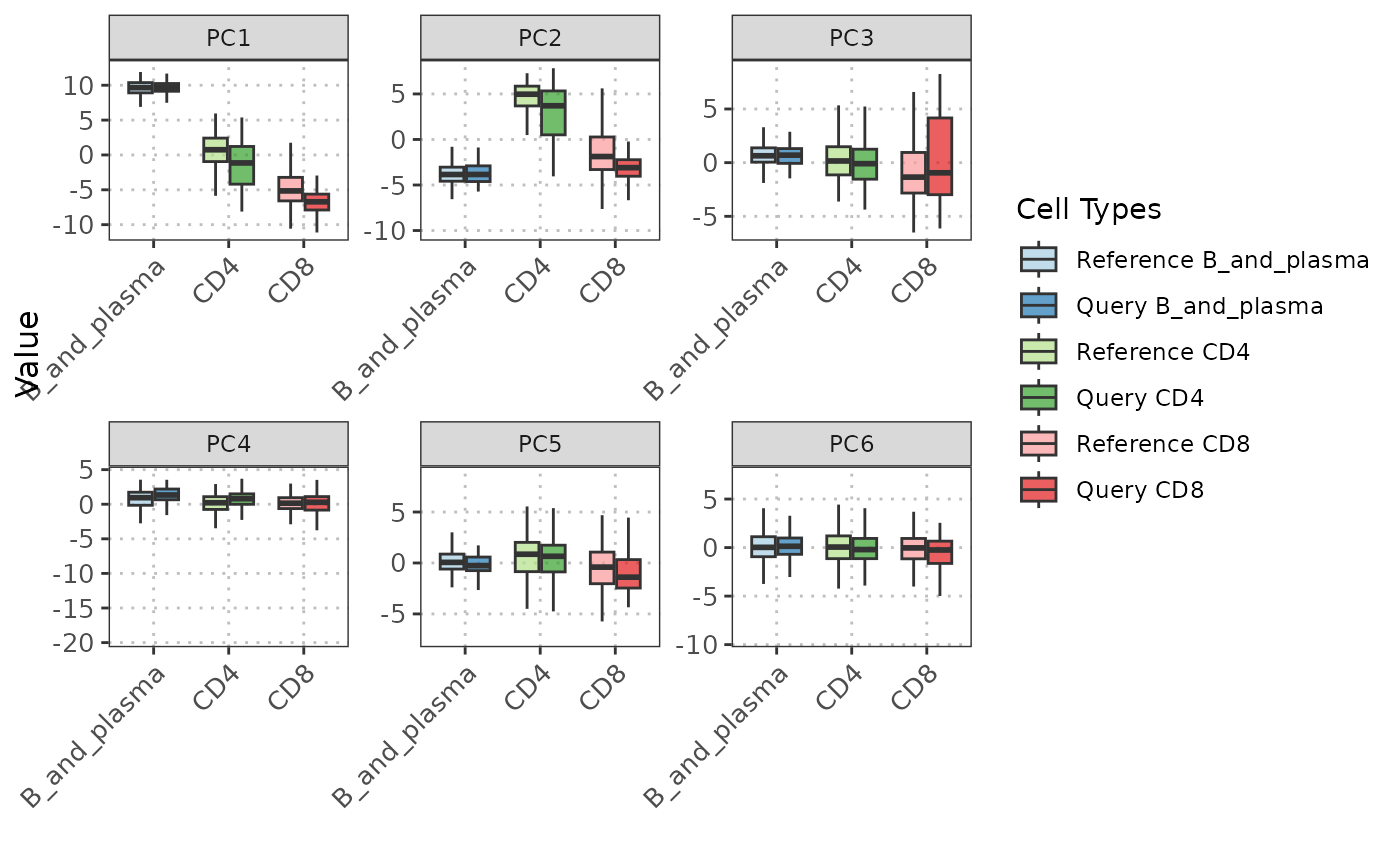
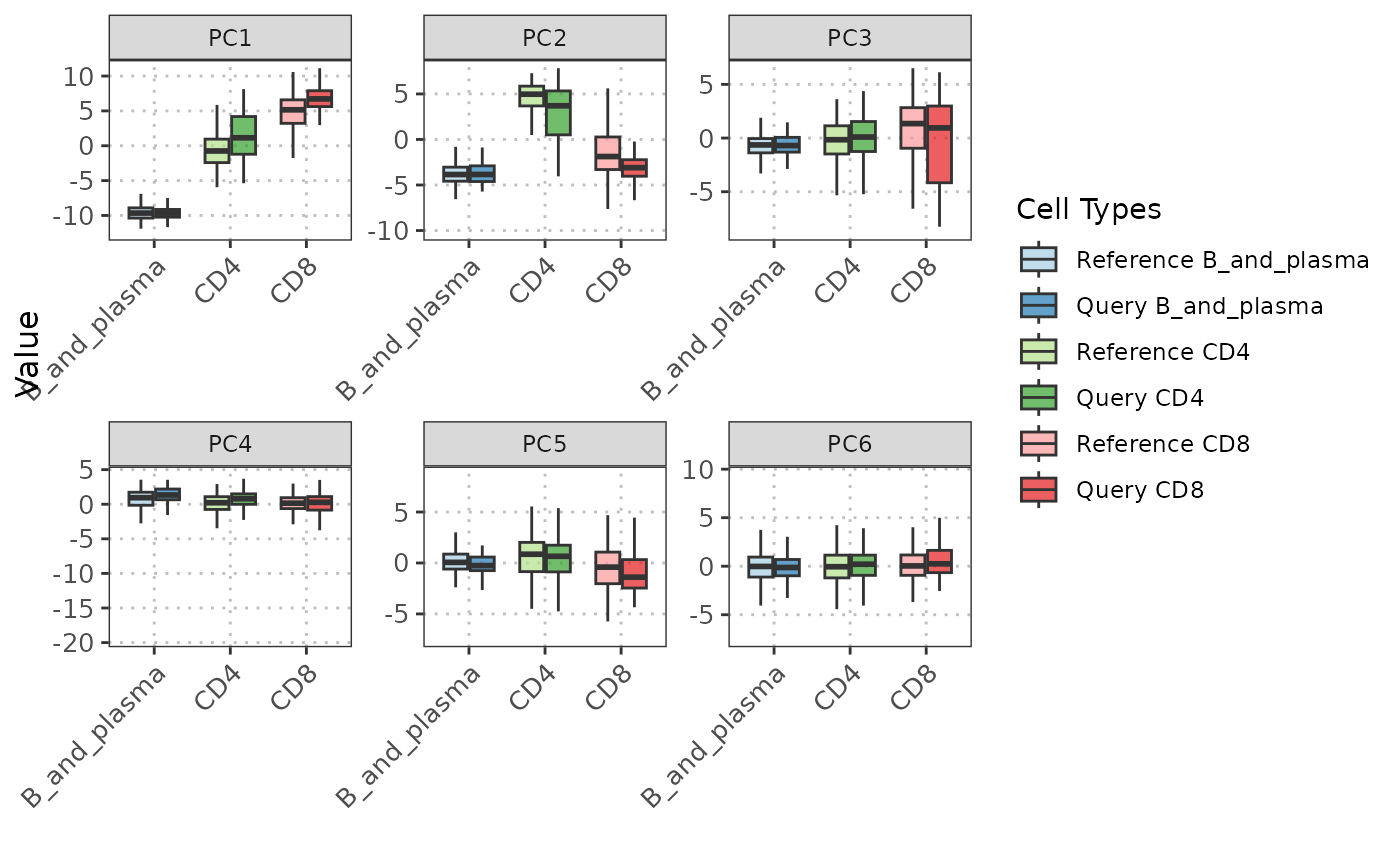
Deploying to gh-pages from @ AnthonyChristidis/scDiagnostics@f25e7e4d71ed37a1fcdbae61748abeb85df72b03 🚀

diff --git a/articles/scDiagnostics.html b/articles/scDiagnostics.html
@@ -425,8 +425,7 @@ functional characteristics.</p>
 <span><span class="fu"><a href="../reference/plotGeneSetScores.html">plotGeneSetScores</a></span><span class="op">(</span>se_object <span class="op">=</span> <span class="va">query_data</span>, </span>
 <span>                  method <span class="op">=</span> <span class="st">"PCA"</span>, </span>
 <span>                  feature <span class="op">=</span> <span class="st">"geneSetScores"</span>,</span>
-<span>                  pc_subset <span class="op">=</span> <span class="fu"><a href="https://rdrr.io/r/base/c.html" class="external-link">c</a></span><span class="op">(</span><span class="fl">1</span><span class="op">:</span><span class="fl">5</span><span class="op">)</span><span class="op">)</span></span></code></pre></div>
-<p><img src="scDiagnostics_files/figure-html/plot-Gene-Set-Scores-1.png" width="700"></p>
+<span>                  pc_subset <span class="op">=</span> <span class="fu"><a href="https://rdrr.io/r/base/c.html" class="external-link">c</a></span><span class="op">(</span><span class="fl">1</span><span class="op">:</span><span class="fl">6</span><span class="op">)</span><span class="op">)</span></span></code></pre></div>
 <p>In the provided example, we demonstrate the usage of the
 plotGeneSetScores function using the AUCell package to compute gene set
 or pathway scores. Custom gene sets are generated for demonstration
@@ -587,7 +586,6 @@ not fully capture the distinctions between these cell types.</p>
 <span>                     query_cell_type_col <span class="op">=</span> <span class="st">"reclustered.broad"</span>, </span>
 <span>                     ref_cell_type_col <span class="op">=</span> <span class="st">"reclustered.broad"</span>, </span>
 <span>                     pc_subset <span class="op">=</span> <span class="fu"><a href="https://rdrr.io/r/base/c.html" class="external-link">c</a></span><span class="op">(</span><span class="fl">1</span><span class="op">:</span><span class="fl">6</span><span class="op">)</span><span class="op">)</span></span></code></pre></div>
-<p><img src="scDiagnostics_files/figure-html/visualize-Cell-Type-PCA-1.png" width="700"></p>
 <p>The B and plasma cell types from the reference and query datasets do
 not overlap well in the PCA space. This lack of overlap could indicate
 discrepancies between the datasets, such as poor classification by
@@ -611,7 +609,10 @@ consistent across these datasets. This overlap indicates that the cell
 type characteristics are well captured and comparable between the
 datasets.</p>
 <div class="sourceCode" id="cb14"><pre class="downlit sourceCode r">
-<code class="sourceCode R"><span><span class="co"># Boxplots of PCs</span></span>
+<code class="sourceCode R"><span><span class="co"># Run PCA on the reference data</span></span>
+<span><span class="va">ref_data_subset</span> <span class="op">&lt;-</span> <span class="fu"><a href="https://rdrr.io/pkg/BiocSingular/man/runPCA.html" class="external-link">runPCA</a></span><span class="op">(</span><span class="va">ref_data_subset</span><span class="op">)</span></span>
+<span></span>
+<span><span class="co"># Boxplots of PCs</span></span>
 <span><span class="fu"><a href="../reference/boxplotPCA.html">boxplotPCA</a></span><span class="op">(</span>query_data <span class="op">=</span> <span class="va">query_data_subset</span>, reference_data <span class="op">=</span> <span class="va">ref_data_subset</span>,</span>
 <span>           query_cell_type_col <span class="op">=</span> <span class="st">"labels"</span>, </span>
 <span>           ref_cell_type_col <span class="op">=</span> <span class="st">"reclustered.broad"</span>, </span>
@@ -988,21 +989,21 @@ query samples and reference data.</p>
 <span>                                                       ref_cell_type_col <span class="op">=</span> <span class="st">"reclustered.broad"</span><span class="op">)</span> </span>
 <span><span class="va">overlap_measures</span><span class="op">$</span><span class="va">bhattacharyya_coef</span></span>
 <span><span class="co">#&gt;               Sample B_and_plasma       CD8       CD4</span></span>
-<span><span class="co">#&gt; 1 CGTTGGGAGCTGAACG-1    0.2584233 0.9447935 0.5397216</span></span>
-<span><span class="co">#&gt; 2 AAACGGGCACATGACT-1    0.2875195 0.9706078 0.4892946</span></span>
-<span><span class="co">#&gt; 3 GGGACCTTCCCATTTA-1    0.3109462 0.9476774 0.7052183</span></span>
-<span><span class="co">#&gt; 4 ATTGGTGGTAACGCGA-1    0.4207154 0.4835584 0.5011162</span></span>
-<span><span class="co">#&gt; 5 CTGAAACAGACGCAAC-1    0.3084905 0.9116329 0.5798267</span></span>
-<span><span class="co">#&gt; 6 ATTGGACCATACTACG-1    0.2789674 0.9811063 0.5627595</span></span></code></pre></div>
+<span><span class="co">#&gt; 1 AACTCCCAGTCCCACG-1    0.2838214 0.8965671 0.7743430</span></span>
+<span><span class="co">#&gt; 2 GGGACCTTCCCATTTA-1    0.3109462 0.9476774 0.7052183</span></span>
+<span><span class="co">#&gt; 3 CGTTGGGAGCTGAACG-1    0.2584233 0.9447935 0.5397216</span></span>
+<span><span class="co">#&gt; 4 CACCTTGGTTATGTGC-1    0.2541869 0.9914814 0.4618995</span></span>
+<span><span class="co">#&gt; 5 AAACGGGCACATGACT-1    0.2875195 0.9706078 0.4892946</span></span>
+<span><span class="co">#&gt; 6 ATTGGTGGTAACGCGA-1    0.4207154 0.4835584 0.5011162</span></span></code></pre></div>
 <div class="sourceCode" id="cb29"><pre class="downlit sourceCode r">
 <code class="sourceCode R"><span><span class="va">overlap_measures</span><span class="op">$</span><span class="va">hellinger_dist</span></span>
-<span><span class="co">#&gt;               Sample B_and_plasma       CD8       CD4</span></span>
-<span><span class="co">#&gt; 1 CGTTGGGAGCTGAACG-1    0.8611485 0.2349607 0.6784382</span></span>
-<span><span class="co">#&gt; 2 AAACGGGCACATGACT-1    0.8440856 0.1714414 0.7146366</span></span>
-<span><span class="co">#&gt; 3 GGGACCTTCCCATTTA-1    0.8300927 0.2287412 0.5429380</span></span>
-<span><span class="co">#&gt; 4 ATTGGTGGTAACGCGA-1    0.7611075 0.7186387 0.7063171</span></span>
-<span><span class="co">#&gt; 5 CTGAAACAGACGCAAC-1    0.8315705 0.2972660 0.6482078</span></span>
-<span><span class="co">#&gt; 6 ATTGGACCATACTACG-1    0.8491364 0.1374545 0.6612417</span></span></code></pre></div>
+<span><span class="co">#&gt;               Sample B_and_plasma        CD8       CD4</span></span>
+<span><span class="co">#&gt; 1 AACTCCCAGTCCCACG-1    0.8462733 0.32160979 0.4750337</span></span>
+<span><span class="co">#&gt; 2 GGGACCTTCCCATTTA-1    0.8300927 0.22874124 0.5429380</span></span>
+<span><span class="co">#&gt; 3 CGTTGGGAGCTGAACG-1    0.8611485 0.23496073 0.6784382</span></span>
+<span><span class="co">#&gt; 4 CACCTTGGTTATGTGC-1    0.8636047 0.09229603 0.7335533</span></span>
+<span><span class="co">#&gt; 5 AAACGGGCACATGACT-1    0.8440856 0.17144142 0.7146366</span></span>
+<span><span class="co">#&gt; 6 ATTGGTGGTAACGCGA-1    0.7611075 0.71863872 0.7063171</span></span></code></pre></div>
 <p>When employing the calculateSampleDistancesSimilarity function, the
 anomalous CD4+ T cells identified using detectAnomaly demonstrate
 intriguing patterns in their similarity measures. Specifically, these
